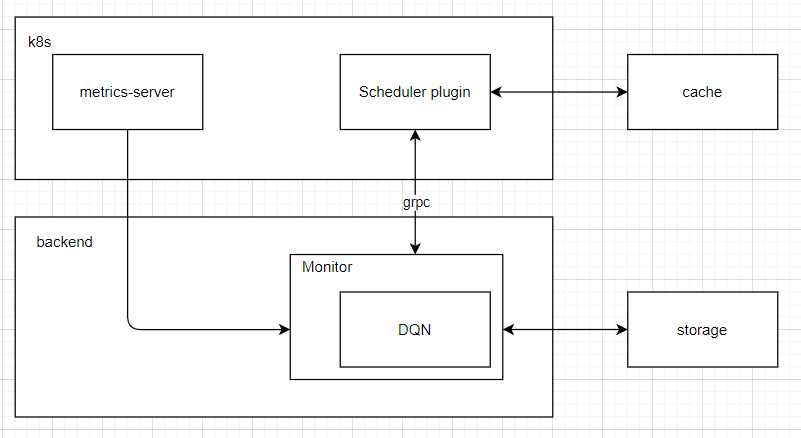
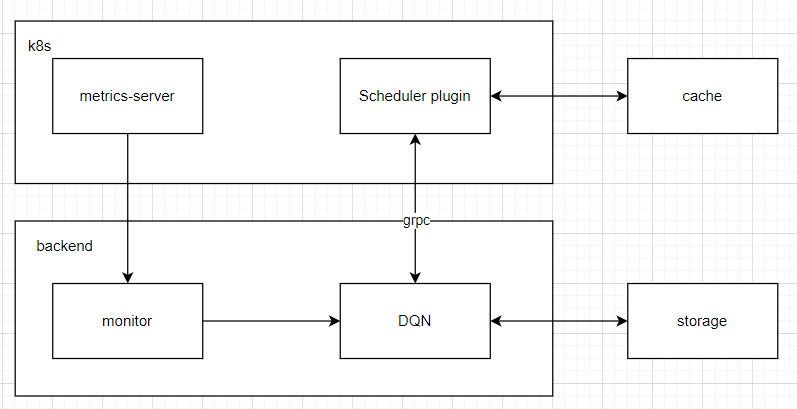
add rl args

diff --git a/rl-server/rl/schedule_env.py b/rl-server/rl/schedule_env.py
@@ -1,20 +1,17 @@
-import gym
-from gym import spaces
-from gym.utils import seeding
-
-from k8s import K8sClient
-
-node_class = ["cpu", "memory"]
+from config import NODE_CLASS, NODE_STATE, DEFAULT_NODE
 
 
-class ScheduleEnv(gym.Env):
-    def __init__(self):
-        self.k8s_client = K8sClient()
+class ScheduleEnv():
+    def __init__(self, node_list):
 
-        self.states = [1,2,3,4,5,6,7,8]             # 状态
-        self.actions = ['n','e','s','w']            # 动作
+        # 状态
+        self.states = list_product(node_list, NODE_CLASS, NODE_STATE) + ["no_available"]
+        # 动作
+        self.actions = list_product(node_list, NODE_CLASS)
 
-        self.rewards = dict()		# 回报函数的数据结构为字典
+        # 回报函数的数据结构为字典
+        self.rewards = dict()
+        # for 
         self.rewards['1_s'] = -1.0	
         self.rewards['3_s'] = 1.0
         self.rewards['5_s'] = -1.0
@@ -37,5 +34,21 @@ class ScheduleEnv(gym.Env):
     def reset(self):
         pass
 
-    
+def list_product(*lists):
+    result = [[]]
 
+    for pool in lists:
+        tmp = []
+        for x in result:
+            for y in pool:
+                tmp.append(x + [y])
+        result = tmp   
+
+    result_str = ["_".join(item) for item in result ]
+
+    return result_str
+
+if __name__ == "__main__":
+    node = ["node01", "node02", "node03"]
+    se = ScheduleEnv(node)
+    print(se.states)

diff --git a/rl-server/config/config.py b/rl-server/config/config.py
@@ -1,0 +1,12 @@
+# node resource class
+# C: cpu
+# M: memory
+NODE_CLASS = ["C", "M"]
+
+# node state
+# O: ok, can be scheduled
+# B: bad, cannot be scheduled
+NODE_STATE = ["O", "B"]
+
+# node amount
+DEFAULT_NODE = 10

diff --git a/rl-server/rl/dqn_agent.py b/rl-server/rl/dqn_agent.py
@@ -2,7 +2,7 @@ import numpy as np
 import random
 from collections import namedtuple, deque
 
-from model import QNetwork
+from .model import QNetwork
 
 import torch
 import torch.nn.functional as F

diff --git a/rl-server/rl/monitor.py b/rl-server/rl/monitor.py
@@ -1,5 +1,5 @@
+from k8s import K8sClient
 
-
-class monitor:
+class Monitor:
     def __init__(self):
         self.k8s_client = K8sClient()

diff --git a/rl-server/config/__init__.py b/rl-server/config/__init__.py
@@ -1,0 +1,1 @@
+from .config import *

diff --git a/README.md b/README.md
@@ -4,7 +4,7 @@
 
 ## Overview
 
-![achitecture](imgs/achitecture.png)
+![achitecture](imgs/architecture.png)
 
 ## TODO
 
